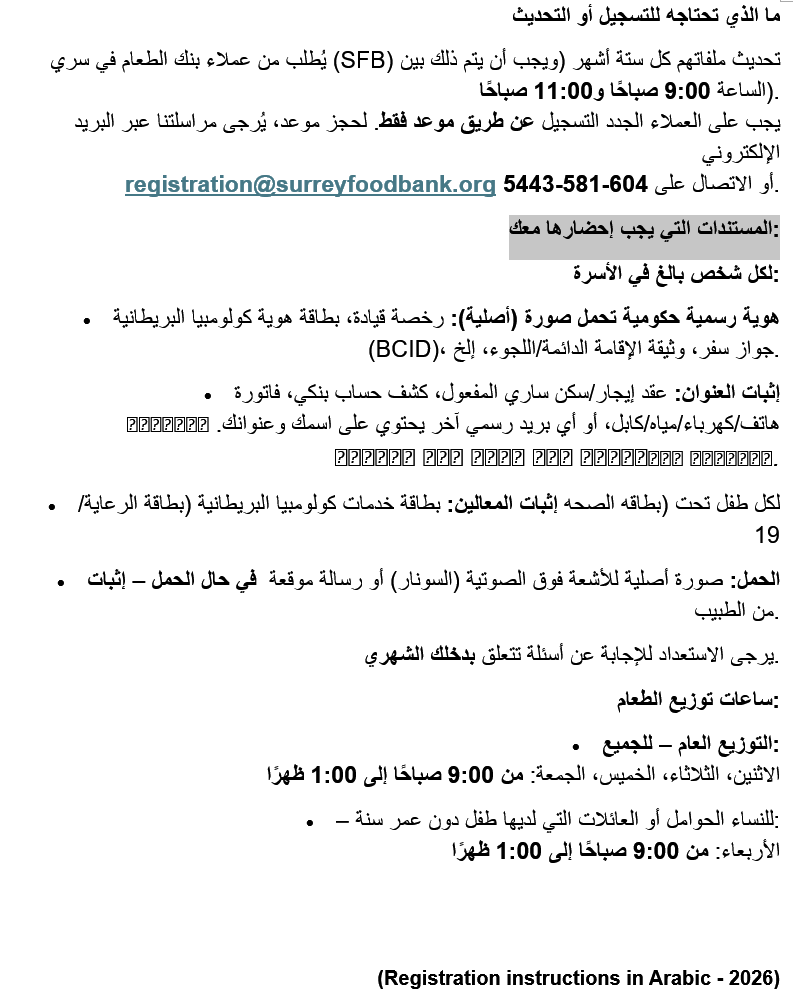
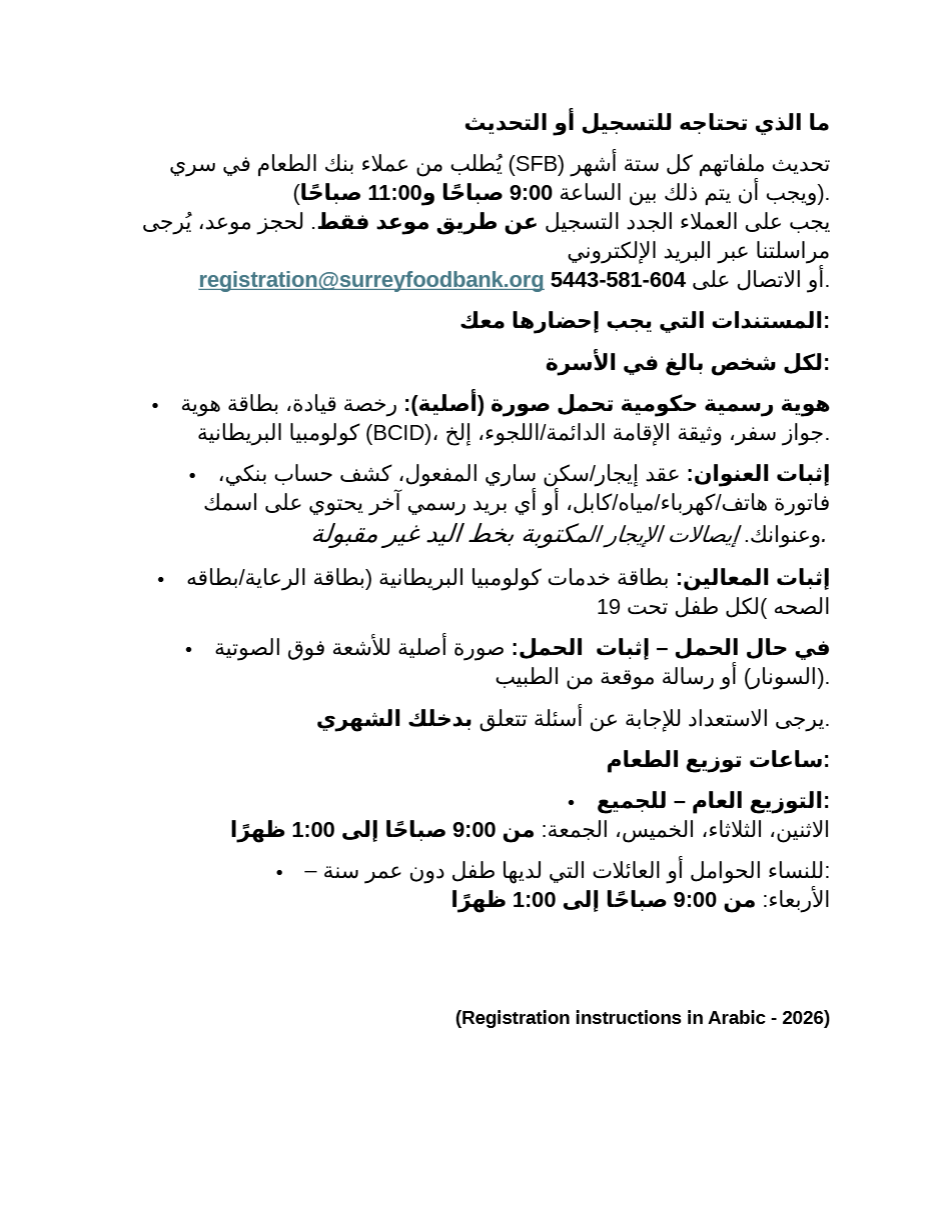
Minor frontend changes
- Updated account recovery to show username
- Updated arabic png without ? boxes
- Updated client dash email notif
- Updated admin booking modal to have username dropdown be scrollable

diff --git a/frontend/src/components/bookingForm.jsx b/frontend/src/components/bookingForm.jsx
@@ -1,7 +1,7 @@
 // Heavily inspired/referenced from mantine ui's demo from https://alpha.mantine.dev/schedule/schedule/#create-and-update-events
 
 import { useEffect, useState } from 'react';
-import { Modal, TextInput, Text, Button, Stack, Group, NativeSelect, Box, Paper, NumberInput, useModalsStack, Tabs, LoadingOverlay } from '@mantine/core';
+import { Modal, TextInput, Text, Button, Stack, Group, NativeSelect, Box, Paper, NumberInput, useModalsStack, Tabs, LoadingOverlay, Select } from '@mantine/core';
 import React from 'react';
 import { DateTimePicker } from '@mantine/dates';
 import { isNotEmpty, useForm } from '@mantine/form';
@@ -175,14 +175,19 @@ export function BookingForm({ opened, onClose, onSubmit, onDeleteBooking, onDele
         <Box style={{ display: 'grid', gridTemplateColumns: 'minmax(0, 1fr) 220px', gap: '16px', alignItems: 'start' }}>
           <form onSubmit={form.onSubmit(handleSubmit)}>
             <Stack gap="md">
-              <NativeSelect
+              <Select
                 label="Select Client to add to this timeslot"
                 placeholder="Client username"
                 radius="md"
                 data-autofocus
+                searchable
+                maxDropdownHeight={120}
                 value={currClient}
-                onChange={(event) => setCurrClient(event.currentTarget.value)}
-                data={[...clients.map(client => ({ value: client.username, label: client.username })), { value: 'admin', label: 'Admin' }, { value: "", label: '', disabled: true, hidden: true }]}
+                onChange={(value) => setCurrClient(value)} 
+                data={[
+                  ...clients.map(client => ({ value: client.username, label: client.username })),
+                  { value: 'admin', label: 'Admin' }
+                ]}
               />
 
                 <DateTimePicker

diff --git a/frontend/src/pages/clientDashboard.jsx b/frontend/src/pages/clientDashboard.jsx
@@ -116,7 +116,7 @@ export default function ClientDashboard() {
                 if (!emailRes?.success) {
                     notifications.show({
                         title: 'Email not sent',
-                        message: emailRes?.error || 'Appointment was booked but confirmation email failed.',
+                        message: 'Appointment was booked but confirmation email failed. Please make sure your account email is valid.',
                         color: 'yellow',
                     });
                 }
@@ -477,7 +477,7 @@ export default function ClientDashboard() {
                     <div className="modal-content">
                         <p><strong>Date:</strong> {myAppointment && myAppointment.appt_date ? parseApptDate(myAppointment.appt_date).format('MMMM D, YYYY') : 'N/A'}</p>
                         <p><strong>Time:</strong> {myAppointment && myAppointment.start_time ? dayjs(myAppointment.start_time, 'HH:mm').format('h:mm A') : 'N/A'}</p>
-                        <p><strong>Notes:</strong> {myAppointment && myAppointment.booking_notes ? myAppointment.booking_notes : 'N/A'}</p>
+                        <p><strong>Notes:</strong> {myAppointment && myAppointment.booking_notes ? myAppointment.booking_notes : '(Empty)'}</p>
                         <div>
                             <Button mr={10} onClick={() => openStackPage("calendar-page")}>
                                 Edit Booking

diff --git a/backend/src/modules/email/email.service.ts b/backend/src/modules/email/email.service.ts
@@ -31,16 +31,16 @@ export async function sendConfirmMessage(apptDate: string, apptTime: string, use
 }
 
 // send recovery email using "account recovery" template
-export async function sendRecoveryMessage(email: string, link: string) {
+export async function sendRecoveryMessage(email: string, link: string, username: string) {
   try {
-    const subjectUser = "Account Recovery for " + email;
+    const subjectUser = "Account Recovery for " + username;
     const data = await mg.messages.create("sandbox566ace4bec16451b809897c40c8e522a.mailgun.org", {
       from: "Mailgun Sandbox <postmaster@sandbox566ace4bec16451b809897c40c8e522a.mailgun.org>",
       to: [email],
       subject: subjectUser,
       template: "account recovery",
       "h:X-Mailgun-Variables": JSON.stringify({
-        useremail: email,
+        username: username,
         recoverylink: link,
       }),
     });

diff --git a/backend/src/modules/email/email.controller.ts b/backend/src/modules/email/email.controller.ts
@@ -26,8 +26,8 @@ export async function sendConfirmation(req: Request, res: Response) {
 // Send recovery email with unique password reset link to set new account password
 export async function sendRecovery(req: Request, res: Response) {
     try { 
-        const { email, link } = req.body;
-        const result = await service.sendRecoveryMessage(email, link);
+        const { email, link, username } = req.body;
+        const result = await service.sendRecoveryMessage(email, link, username);
 
         if (!result) {
             res.status(400).json({ error: "Issue creating email" });

diff --git a/backend/src/modules/auth/auth.service.ts b/backend/src/modules/auth/auth.service.ts
@@ -45,7 +45,7 @@ export async function requestPasswordReset(identifier: string): Promise<void> {
     const baseUrl = env.FRONTEND_BASE_URL.replace(/\/+$/, "");
     const link = `${baseUrl}/resetPassword?token=${encodeURIComponent(token)}`;
 
-    const result = await sendRecoveryMessage(emailTo, link);
+    const result = await sendRecoveryMessage(emailTo, link, account.username);
     if (!result) {
         throw new Error("Failed to send recovery email");
     }
